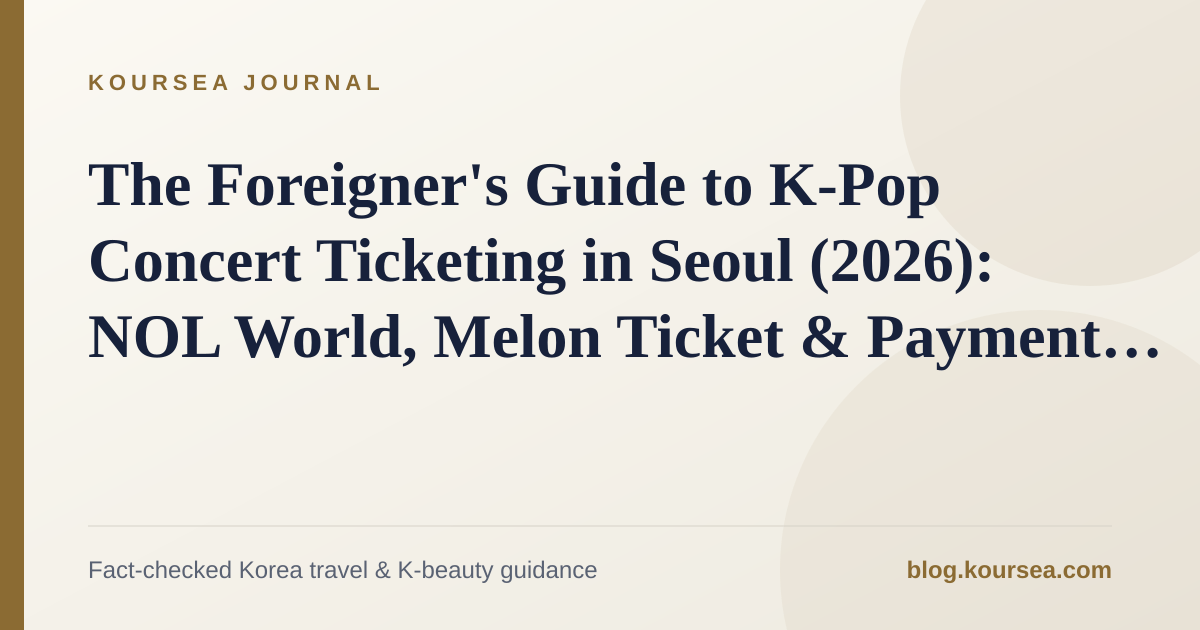
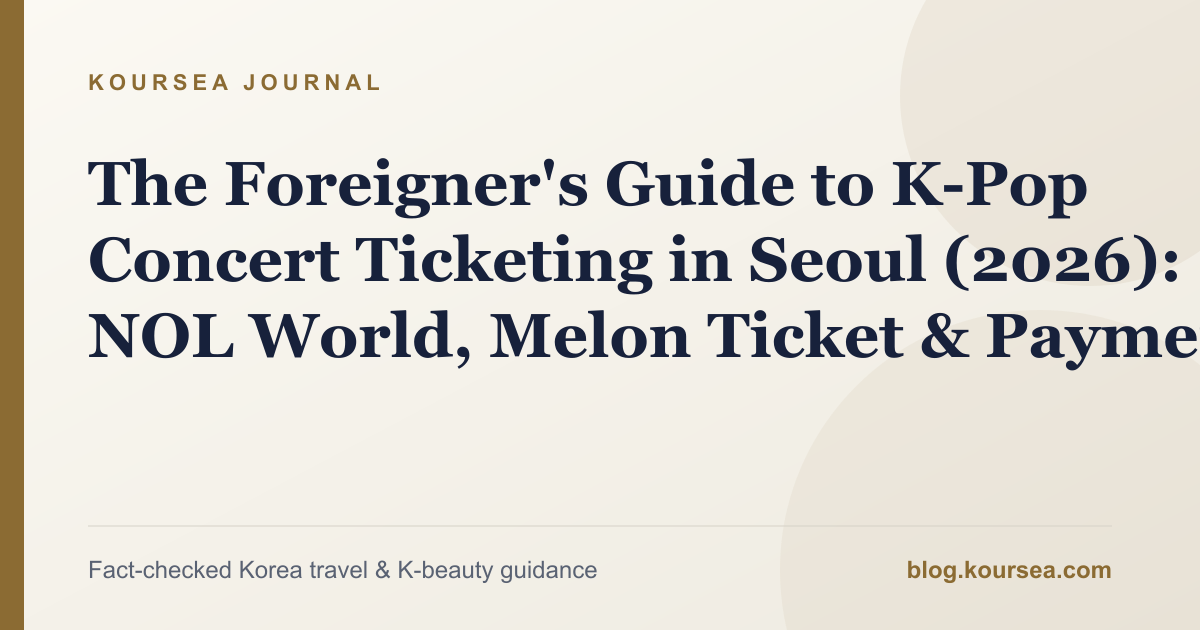
fix: clarify global ticket verification and remove stale place counts

diff --git a/src/content/posts/kpop-concert-ticketing-seoul-2026.md b/src/content/posts/kpop-concert-ticketing-seoul-2026.md
@@ -1,8 +1,8 @@
 ---
 title: "The Foreigner's Guide to K-Pop Concert Ticketing in Seoul (2026): NOL World, Melon Ticket & Payment Reality"
-description: "Buying K-pop concert tickets in Korea as a foreigner? Real 2026 guide to NOL World (Interpark), Melon Ticket, the 010 SMS wall, and card declines."
+description: "Plan K-pop ticket booking in Korea: global ticket portals, show-specific identity checks, YES24 passport verification, payment and ticket pickup."
 pubDate: 2026-09-02
-updatedDate: 2026-09-22
+updatedDate: 2026-09-24
 tags:
   - kpop
   - concert-tickets
@@ -19,7 +19,7 @@ faq:
   - question: "Is Interpark Global still a separate ticketing site?"
     answer: "No. The guide says it was rebranded to NOL World in December 2025, an English front end connected to the domestic NOL Ticket inventory."
   - question: "Do foreign visitors need a Korean phone number for major ticket platforms?"
-    answer: "The guide says a Korean-capable 010 number for SMS identity verification remains the main barrier and that all three major platforms require this step in practice."
+    answer: "Not as a universal rule. YES24 Global documents foreign-passport and face verification for selected shows. Follow the official event's global booking instructions; an SMS-capable SIM is not a guarantee of identity verification."
   - question: "Are foreign-issued cards guaranteed to work?"
     answer: "No. Foreign credit cards often work but can be slow or fail, while foreign debit cards fail more often; keep a backup Korean payment method ready."
   - question: "What should I do before the on-sale waiting room opens?"
@@ -30,13 +30,13 @@ faq:
 
 # The Foreigner's Guide to K-Pop Concert Ticketing in Seoul (2026): NOL World, Melon Ticket & Payment Reality
 
-Buying a K-pop concert ticket from outside Korea sounds simple until you actually try it: the site is in Korean, it wants a phone number format your country doesn't have, and your card gets rejected at the last screen. None of that is a rumor — it's the actual, current shape of the three platforms most tours use. Here's what each step really looks like in 2026, and how to get through it.
+Start with the booking link in your concert's official announcement. A domestic ticket site and its global portal can have different account and identity checks. Account verification, fan-club presale eligibility, payment, ticket collection and admission are separate steps: completing one does not guarantee the others.
 
 ## Key Takeaways
 
 - **"Interpark Global" no longer exists as a separate site.** In December 2025 it was rebranded to **NOL World** (world.nol.com/en) — an English front end that pulls from the same domestic NOL Ticket (formerly Interpark Ticket) inventory, not an independent booking system.
-- **Melon Ticket is a separate platform from NOL**, still requires one-time identity verification (본인인증), and has its own English portal, **Melon Ticket Global** — but we could not confirm from an official source that it waives the Korean phone-number requirement, so budget time for it either way.
-- **A Korean (010) phone number to receive an SMS code is still the single biggest barrier.** No platform has a confirmed, working passport-only alternative in production as of this writing — treat any claim otherwise as unverified.
+- **Use the global booking instructions for your specific show.** Do not apply a domestic site's identity requirements to every foreign visitor.
+- **YES24 Global offers passport-based eKYC for selected shows.** This is not a promise that every event or platform follows the same process.
 - **Foreign-issued debit cards are frequently declined;** foreign credit cards (Visa/Mastercard) usually work but can be slower or error out at checkout. Have a backup Korean payment method ready.
 - **This guide is built to stay useful between tours** — bookmark it now, whenever your group's next Korea show is announced.
 
@@ -46,18 +46,18 @@ Buying a K-pop concert ticket from outside Korea sounds simple until you actuall
 Interpark's ticketing arm was folded into Nol Universe's "NOL" branding, and the English-facing international portal that used to be called **Interpark Global was rebranded to NOL World** (world.nol.com/en) in December 2025. If you search "Interpark Global k-pop tickets" today, this is where you should expect to land. Important to understand: NOL World is an English front end, not a separate ticket pool — it draws from the same domestic NOL Ticket inventory Korean fans use, so availability and the verification requirements below still apply.
 
 ### Melon Ticket
-Melon Ticket (ticket.melon.com) is a fully separate company from NOL and is used by a large share of concerts and fan meetings. It requires **본인인증 (one-time identity verification)** before your first purchase — this is not optional and is enforced at the account level, not just at checkout. There is an English-language portal, **Melon Ticket Global** (tkglobal.melon.com), with its own sign-up flow, but we could not confirm from an official Korean source whether it removes the Korean phone-number step for foreign accounts. Don't assume it does — start the sign-up process a few days before the sale opens, not the morning of.
+Melon Ticket has an English-language portal, **Melon Ticket Global** (tkglobal.melon.com). Use the link supplied by the promoter and check that show's account, presale and ID instructions before sales begin. This review does not establish a universal Korean-phone requirement for its global accounts.
 
 ### Yes24 Ticket
-Yes24 Ticket rounds out the big three and uses a similar identity-verification flow (phone or IPIN-based) as the other two. Which platform a given tour uses depends entirely on the promoter, and some international arena dates are sold instead through **Ticketmaster** or another regional partner rather than any Korean platform — check the specific tour's official announcement, because there's no single rule that covers every artist.
+The [YES24 Global official FAQ](https://ticket.yes24.com/Pages/English/Guidance/FnFAQ.aspx), checked September 24, 2026, describes a **Verified Member Only** process for selected concerts and musicals. It uses a physical foreign passport and face verification, with a verification code sent by email. Check your show's page for whether this process applies; it is not a universal policy for every YES24 event.
 
-## The 010 Verification Wall — and the One Fix That Actually Works
+## Check the Verification Route Before Buying a SIM
 
-Every platform above eventually asks for **본인인증**: a one-time verification tied to a Korean mobile number, sent as an SMS code. This is the point where most foreign fans get stuck, because a home-country number simply doesn't work in the field.
+Do not buy a Korean SIM solely on the assumption that every ticket site requires one. First identify the global booking page and read its event-specific verification instructions.
 
-We looked into whether any platform has quietly added a foreigner-friendly workaround — passport-only verification, international SMS, anything — and found no confirmed, live implementation on NOL, Melon, or Yes24. (There's a Korean identity-verification vendor publicly pitching passport-scan authentication for exactly this use case, which tells you the industry knows it's a problem — but a vendor's pitch deck isn't a feature you can use today.)
+For YES24 Global's selected Verified Member Only shows, the official FAQ documents foreign-passport eKYC rather than a universal Korean 010 SMS requirement. Complete the required checks before the sale, and contact official support if your account remains pending or declined.
 
-The practical fix is the same one Korean residents effectively rely on: **get a number that can actually receive a Korean SMS before you try to book.** A Korean-capable eSIM set up a day or two ahead of the on-sale is the most reliable route, and it solves the same verification problem you'll also hit at convenience-store apps, delivery apps, and some hotel check-ins. We cover exactly which eSIM plans support SMS reception (not all data-only plans do) in our [Korean eSIM Guide](/posts/korea-esim-with-phone-number-2026-guide/) — read that before ticketing day, not after your card's already been charged and you're stuck at the verification screen.
+If your booking flow does request a Korean mobile identity check, ask the platform and SIM provider whether your plan and identity documents qualify. Receiving an SMS alone does not establish eligibility. Our [Korean eSIM Guide](/posts/korea-esim-with-phone-number-2026-guide/) is a connectivity reference, not a guarantee that a plan will pass ticketing verification.
 
 ## Payment Reality: Why Your Card Gets Declined
 
@@ -69,7 +69,7 @@ This isn't unique to ticketing — it's the same foreign-card friction we docume
 
 High-demand shows on all three platforms use a **예매대기 (virtual waiting room)** system — you don't hit "buy," you get a queue number and a countdown, then a narrow window to complete the purchase once you're let through. A few things matter more here than anywhere else:
 
-- **Have your account fully verified (010 SMS done, payment method saved) before the waiting room opens** — you cannot fix verification issues once you're in queue.
+- **Complete the checks required by your show's booking page before the waiting room opens.** Confirm your account status and accepted payment method in advance.
 - **Site language toggles (Korean/English) sometimes reset your session** — decide which language you're booking in and stick with it.
 - **If checkout fails partway through, don't refresh and restart blindly** — some platforms hold your seat for a short grace period, others release it immediately. Read the specific platform's own notice, since this varies.
 
@@ -93,7 +93,7 @@ Resale and "guaranteed ticket" sellers outside the official platforms above come
 
 ## Quick Answers
 
-- **Do I need a Korean phone number to buy K-pop tickets?** Effectively yes, for the SMS verification step (본인인증) that all three major platforms require. A Korean-capable eSIM is the most reliable way to get one before ticketing day.
+- **Do I need a Korean phone number to buy K-pop tickets?** There is no single rule for all events. YES24 Global documents foreign-passport eKYC for selected shows; check your own event's global booking instructions before buying a SIM.
 - **Will my international credit card work?** Usually, but not guaranteed — Visa/Mastercard credit generally goes through; foreign debit cards fail more often. Keep a backup Korean payment method ready.
 - **Is "Interpark Global" still the platform I should use?** The site now operates as **NOL World** — same inventory, new name and interface, since the December 2025 rebrand.
 
@@ -110,12 +110,12 @@ Which concert are you booking, and where did you get stuck? Ask on [Koursea Comm
 ## Social & Community Distribution Snippets
 
 ### Threads & X (Twitter) Hook
-"Interpark Global" doesn't exist anymore — it rebranded to NOL World. Same tickets, but foreign K-Pop fans are still hitting the 010 SMS verification wall in 2026.
+Planning a Korea concert trip? Check your show's global booking and identity instructions before buying a SIM for ticketing.
 
 Here is what actually works to book Seoul concert seats without getting locked out 👇
 https://blog.koursea.com/posts/kpop-concert-ticketing-seoul-2026/
 
 ### Reddit Community Reply Template
-Most K-pop tours sell through NOL Ticket (formerly Interpark Global, now rebranded to NOL World), Melon Ticket, or Yes24. All three require a one-time Korean phone verification (본인인증) before you can complete a purchase. If you don't have a Korean number, getting a Korean-capable eSIM set up a few days ahead that supports incoming SMS is the most dependable workaround. Also note that foreign debit cards get declined frequently during the checkout rush — foreign credit cards (Visa/Mastercard) work better, but having a backup Korean payment method loaded beforehand is recommended. Here is the full breakdown of verification and payment workarounds: https://blog.koursea.com/posts/kpop-concert-ticketing-seoul-2026/
+Follow the booking link in the concert's official announcement and check the global site's requirements. A Korean phone number is not a universal prerequisite: YES24 Global documents foreign-passport eKYC for selected shows. Account verification, presale eligibility, ticket pickup and admission can have separate checks. Guide: https://blog.koursea.com/posts/kpop-concert-ticketing-seoul-2026/
 
 ---
